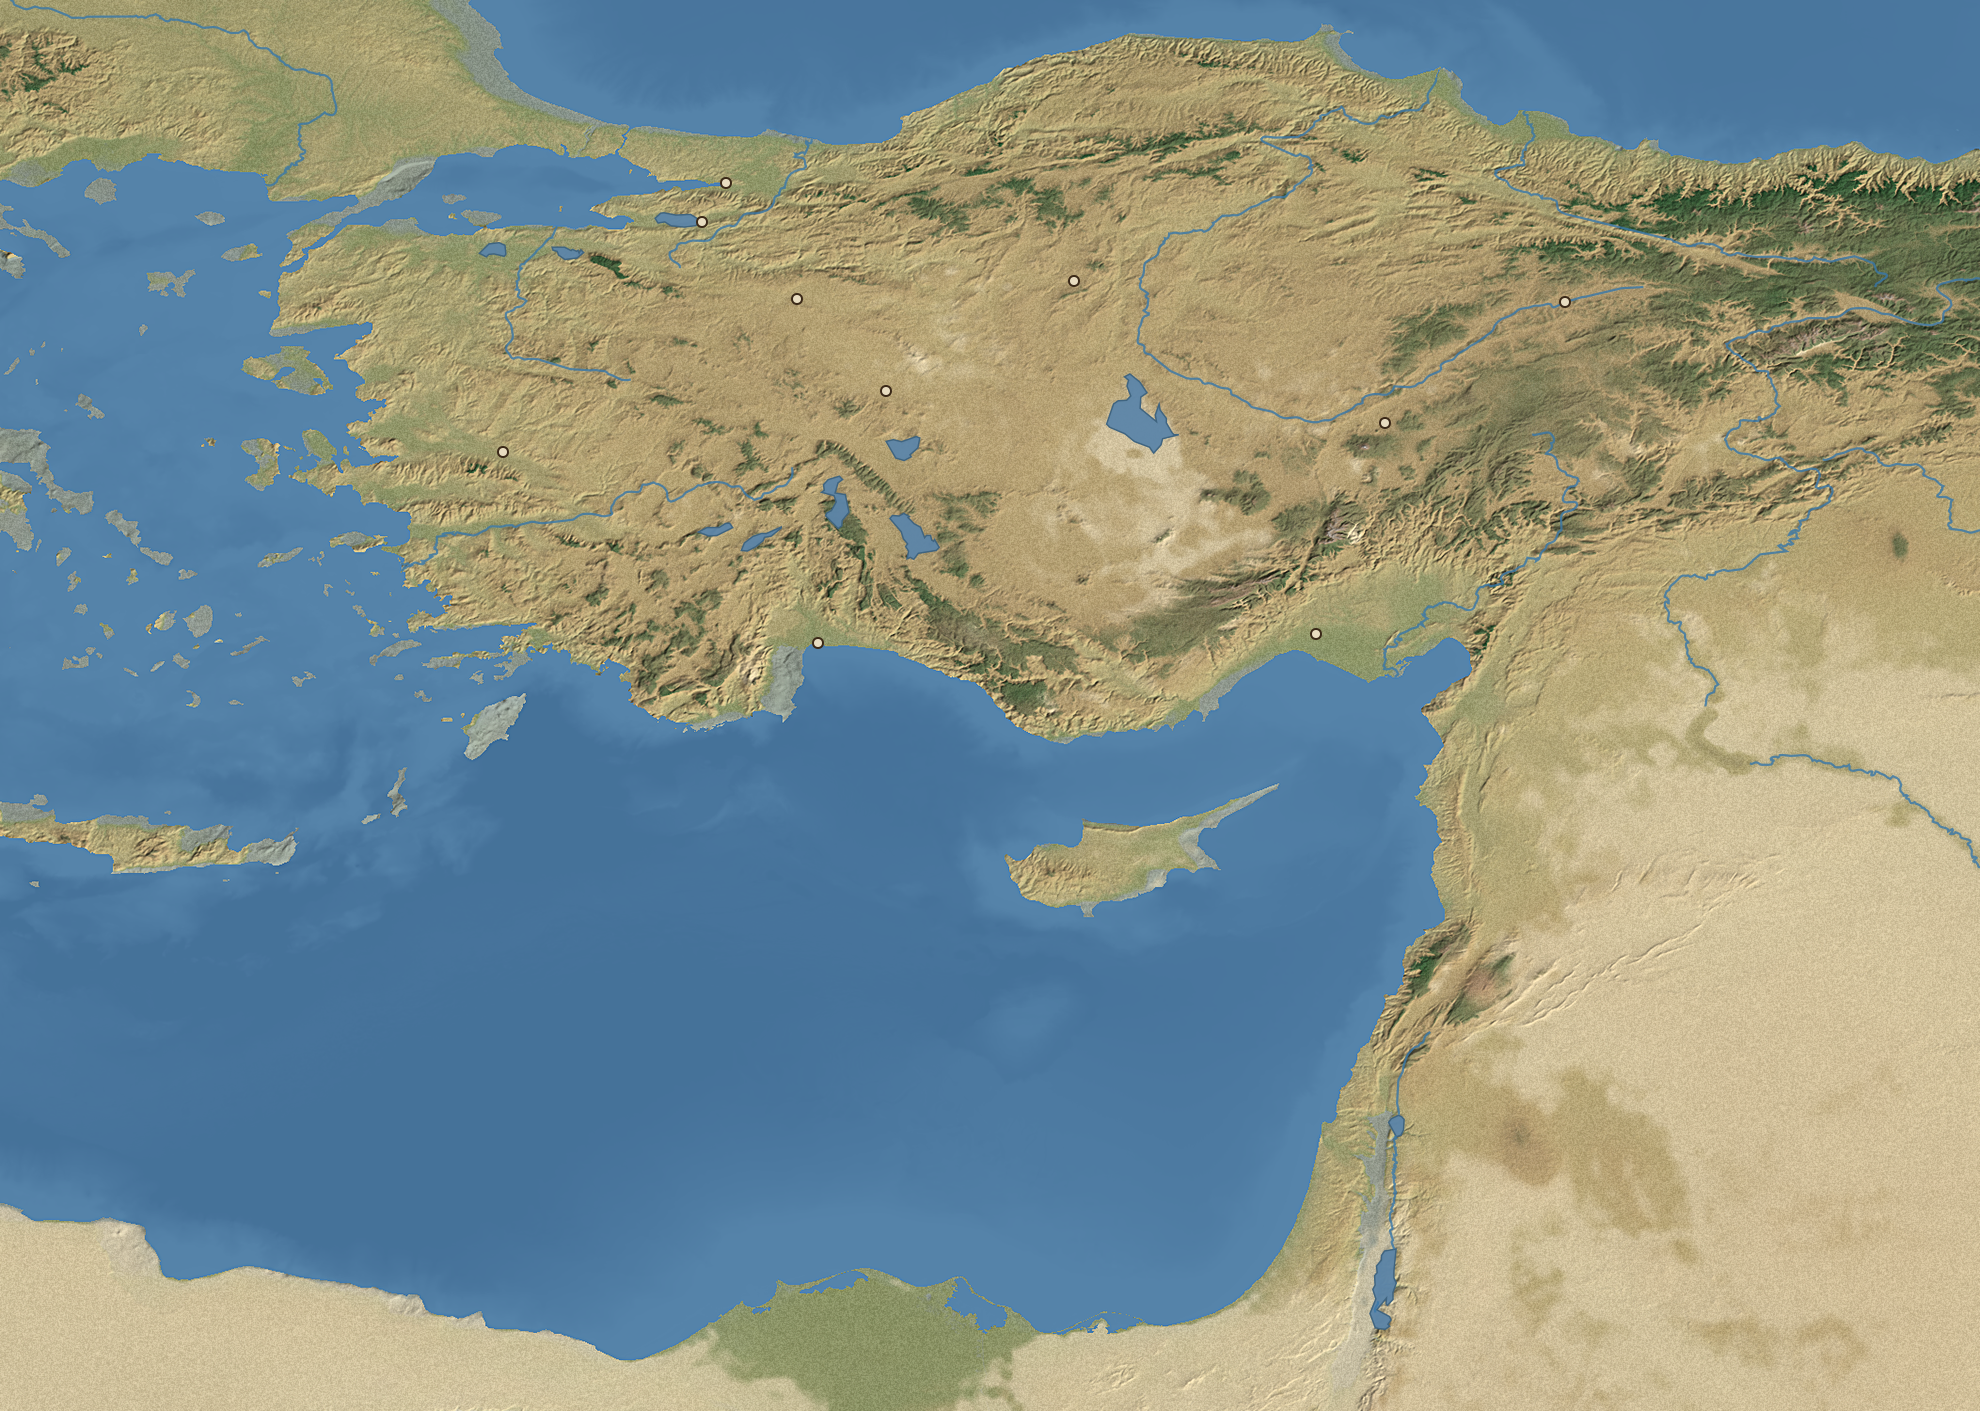
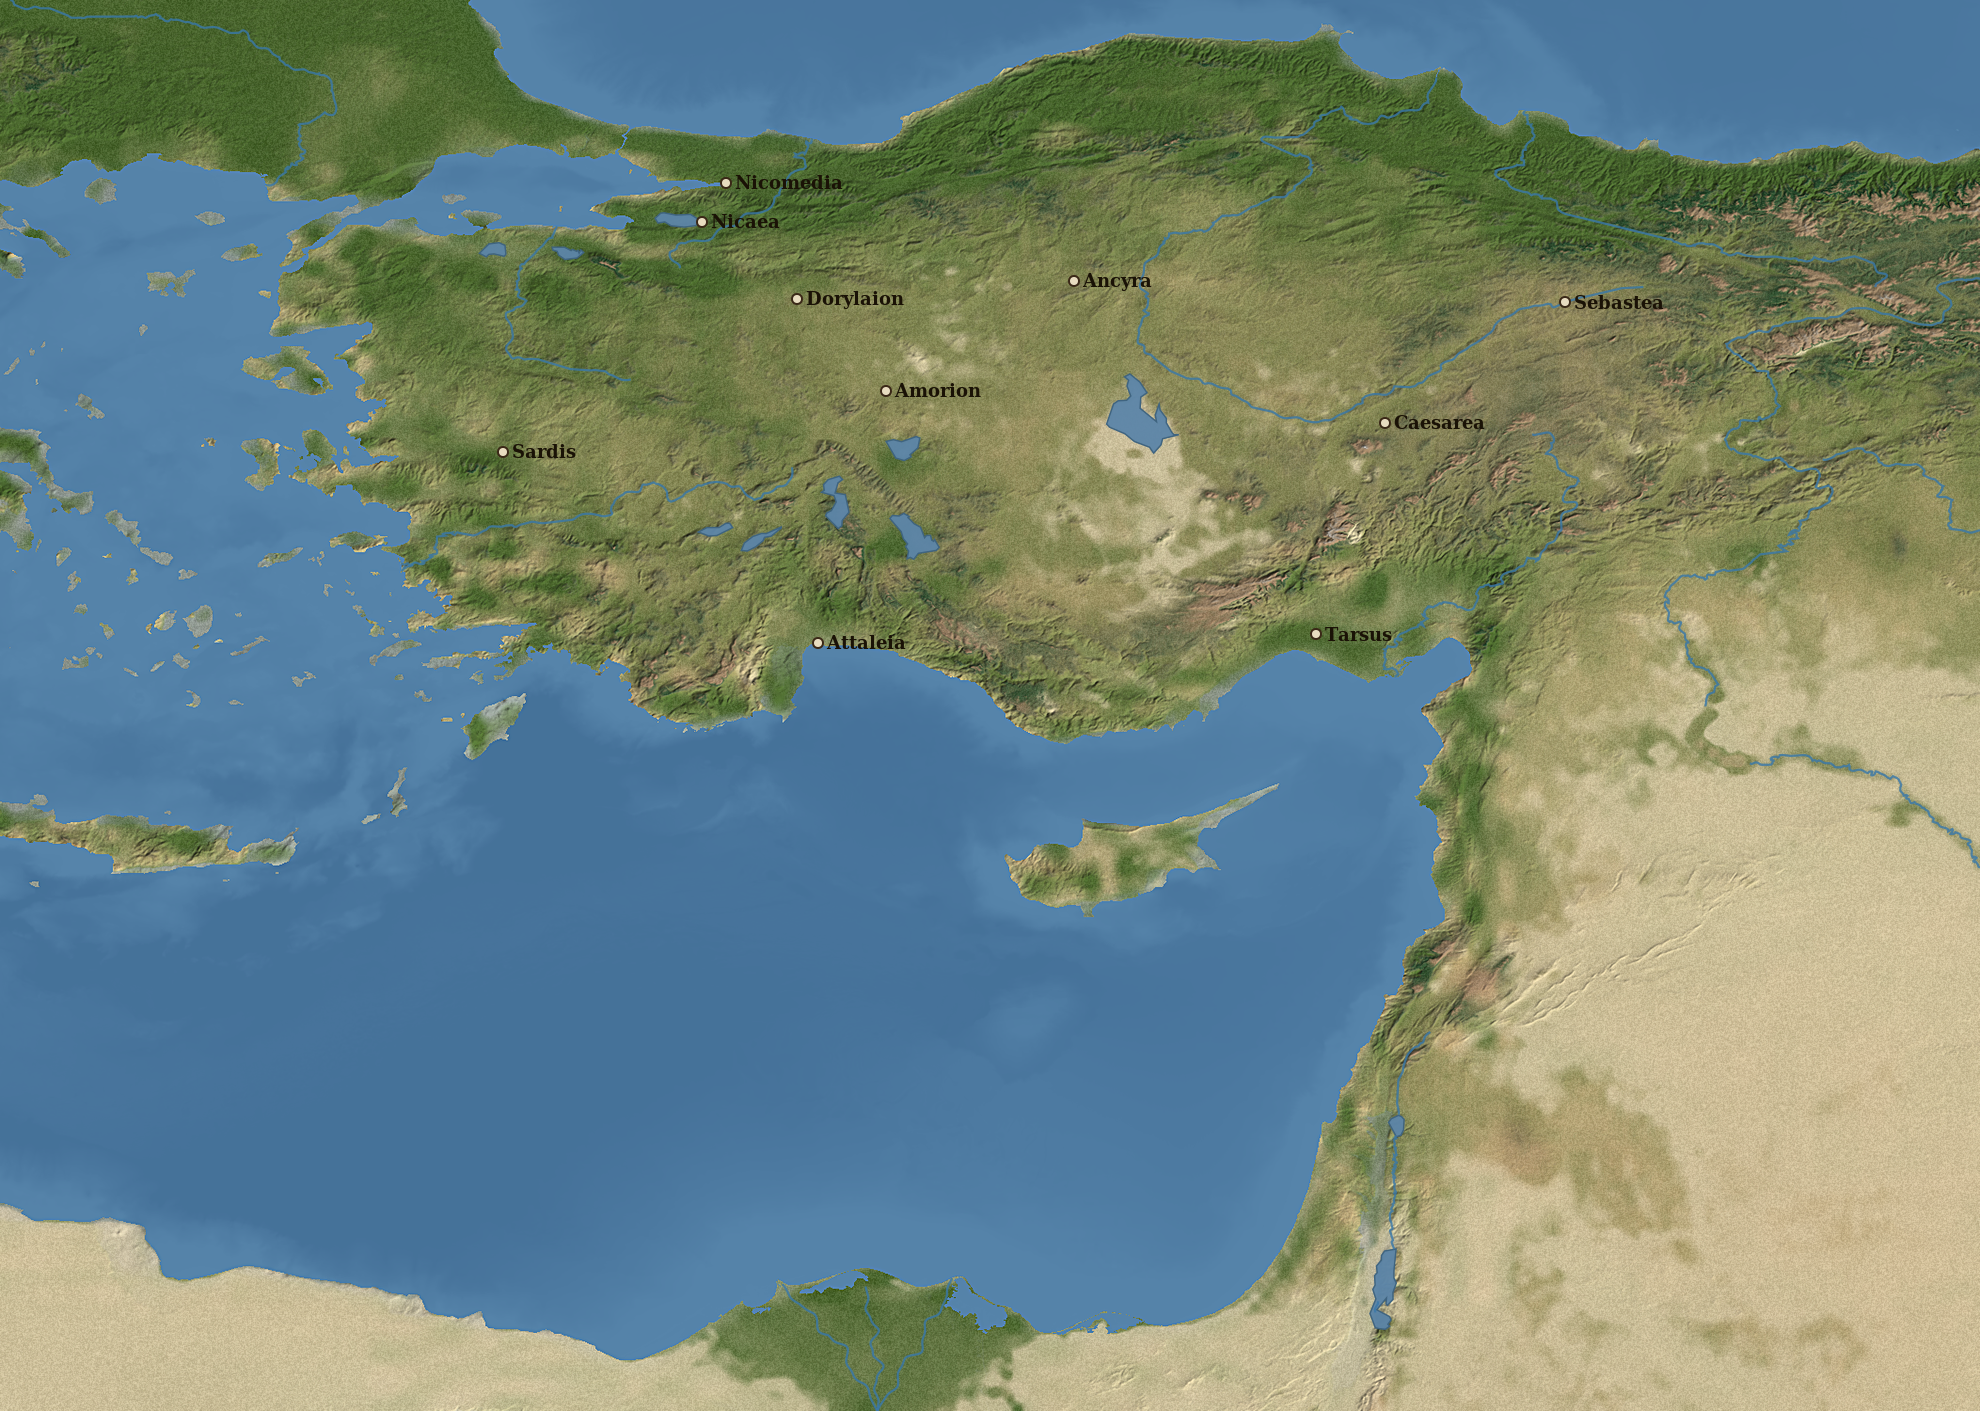
Vegetating Anatolia

diff --git a/index.html b/index.html
@@ -135,7 +135,7 @@
 <script>
 "use strict";
 /* ============ DATA ============ */
-const VERSION='2.03.14';
+const VERSION='2.03.17';
 const RESUME_B64="";
 const GOODS=[
  {id:'silk',  n:'Silk',      u:'bolt',  wt:2, e:8,  w:58},
@@ -2119,7 +2119,7 @@ async function saveScore(entry){
     LEADERBOARD=board.slice(0,200);
     await STORE.set('silkroad_scores', JSON.stringify(LEADERBOARD));
   }catch(e){ if(LEADERBOARD){const i=LEADERBOARD.findIndex(e=>e.runId&&e.runId===entry.runId); if(i>=0)LEADERBOARD[i]=entry; else LEADERBOARD.push(entry); LEADERBOARD.sort((a,b)=>b.score-a.score);LEADERBOARD=LEADERBOARD.slice(0,200);} }
-  if(SB_ON && entry.runId){ try{ sbSend('scores?on_conflict=run_id','POST',{run_id:entry.runId, score:Math.round(entry.score||0), data:entry},'resolution=merge-duplicates,return=minimal').then(()=>{ if($('board')){ LEADERBOARD=null; loadBoard().then(()=>{ if($('board'))renderBoardInto($('board')); }); } }).catch(()=>{}); }catch(e){} }
+  if(SB_ON && entry.runId){ try{ sbSend('scores?on_conflict=run_id','POST',{run_id:entry.runId, score:Math.round(entry.score||0), data:entry},'resolution=merge-duplicates,return=minimal').then(function(r){ if(r&&!r.ok){ try{ r.text().then(function(t){ console.warn('[scores] Supabase write rejected', r.status, t); }); }catch(_){ } return; } if($('board')){ LEADERBOARD=null; loadBoard().then(()=>{ if($('board'))renderBoardInto($('board')); }); } }).catch(function(e){ console.warn('[scores] Supabase write error', e); }); }catch(e){} }
   if($('board')) renderBoardInto($('board'));
 }
 function recordRun(outcome){
@@ -2134,7 +2134,7 @@ function setBoardView(v){ BOARD_VIEW=v; if($('board'))renderBoardInto($('board')
 function renderBoardInto(el){
   const all=(LEADERBOARD||[]).slice();
   const tabs='<div style="margin-bottom:8px">'+BOARD_VIEWS.map(function(t){ return '<button class="tiny'+(BOARD_VIEW===t[0]?' seal':'')+'" onclick="setBoardView(\''+t[0]+'\')">'+t[1]+'</button>'; }).join(' ')+'</div>';
-  const estHead='<tr><th>#</th><th>Merchant</th><th style="text-align:right">Estate</th><th style="text-align:right">Days</th><th>Fate</th></tr>';
+  const estHead='<tr><th>#</th><th>Merchant</th><th style="text-align:right">Estate</th><th style="text-align:right">Days</th><th class="sub">Ver</th><th>Fate</th></tr>';
   const fastHead='<tr><th>#</th><th>Merchant</th><th style="text-align:right">Days</th><th style="text-align:right">Estate</th><th>Route</th></tr>';
   let head=estHead, list, fast=false;
   if(BOARD_VIEW==='fastest'){ fast=true; head=fastHead; list=all.filter(function(e){return e.roundtrip&&e.days;}).sort(function(a,b){return a.days-b.days;}).slice(0,3); }
@@ -2143,7 +2143,7 @@ function renderBoardInto(el){
   let body;
   if(!list.length){ body='<p class="sub">No ventures of this kind recorded yet.</p>'; }
   else if(fast){ body='<table>'+head+list.map(function(e,i){ return '<tr><td>'+(i+1)+'</td><td>'+e.name+'</td><td class="num gold">'+e.days+'</td><td class="num">'+e.score+'</td><td class="sub">'+(e.route&&e.route!=='-'?(e.route==='N'?'northern':'southern'):'—')+'</td></tr>'; }).join('')+'</table>'; }
-  else { body='<table>'+head+list.map(function(e,i){ return '<tr><td>'+(i+1)+'</td><td>'+e.name+'</td><td class="num gold">'+e.score+'</td><td class="num">'+(e.days||'—')+'</td><td class="sub">'+e.outcome+'</td></tr>'; }).join('')+'</table>'; }
+  else { body='<table>'+head+list.map(function(e,i){ return '<tr><td>'+(i+1)+'</td><td>'+e.name+'</td><td class="num gold">'+e.score+'</td><td class="num">'+(e.days||'—')+'</td><td class="sub">'+(e.version||'\u2014')+'</td><td class="sub">'+e.outcome+'</td></tr>'; }).join('')+'</table>'; }
   el.innerHTML=tabs+body;
 }
 
@@ -4155,7 +4155,7 @@ function seaEntryButtons(c){
   return '';
 }
 /* ============ ANATOLIA REGION MAP (departure screen) ============ */
-const ANAT_IMG="Maps/anatolia_relief_setout.png";
+function anatImg(){ return "Maps/anatolia_relief_setout_"+((typeof chartSeason==='function')?chartSeason():'summer')+".png"; }
 const CHARTS={
  kashgar:{img:"Maps/kashgar762.png",seasonal:true,vbw:1500,vbh:747,title:"Kashgar and the western Tarim",cities:{Kashgar:{x:665,y:420,ldx:-150,ldy:8},Akhsikath:{x:133,y:244,ldx:0,ldy:16},Yarkand:{x:873,y:596,ldx:0,ldy:18},Aksu:{x:1377,y:138,ldx:-95,ldy:-2}},open:["Kashgar"]},
  steppe:{img:"Maps/steppe762.png",seasonal:true,vbw:1980,vbh:1064,title:"Sogdiana and the steppe road",cities:{Bukhara:{x:62,y:729,ldx:14,ldy:6},Samarkand:{x:439,y:746,ldx:-10,ldy:20},Chach:{x:780,y:501,ldx:0,ldy:-18},Ispijab:{x:783,y:355,ldx:-118,ldy:-2},Talas:{x:1089,y:266,ldx:0,ldy:-16},Akhsikath:{x:1104,y:559,ldx:0,ldy:18},Kashgar:{x:1772,y:773,ldx:-150,ldy:8},Suyab:{x:1655,y:281,ldx:-118,ldy:-4}},open:["Samarkand","Chach","Ispijab","Talas","Akhsikath","Suyab"]},
@@ -4230,7 +4230,7 @@ function renderMap(m){
     '<circle cx="237" cy="551" r="13" fill="#c0241a" stroke="#fff" stroke-width="3"/><text x="262" y="544" font-size="42" fill="#7a1208" stroke="#f7e9c8" stroke-width="6" paint-order="stroke">Constantinople</text>'+
     '<circle cx="4247" cy="889" r="13" fill="#c0241a" stroke="#fff" stroke-width="3"/><text x="4224" y="952" text-anchor="end" font-size="42" fill="#7a1208" stroke="#f7e9c8" stroke-width="6" paint-order="stroke">Chang\'an</text>'+
     '</g></g></svg>'+
-    '<img id="cncorr" src="Maps/anatolia_relief_setout.png" alt="" style="position:absolute;inset:0;width:100%;height:100%;object-fit:cover;opacity:0">'+
+    '<img id="cncorr" src="'+anatImg()+'" alt="" style="position:absolute;inset:0;width:100%;height:100%;object-fit:cover;opacity:0">'+
     '<div class="cnCap">Constantinople &mdash; the western end of the Silk Road. Your road runs east, across Anatolia and the deserts beyond, toward distant Cathay. <em>(tap to skip)</em></div></div>';
     cnPlayIntro({x0:0,y0:486,x1:816,y1:1083},2.0); return; } }
   function avail(id){ if(!links[id])return false; if(links[id]==='sea')return voyAllowed(ANAT_NAME[here],ANAT_NAME[id]); return true; }
@@ -4264,7 +4264,7 @@ function renderMap(m){
   var _onward=(_nx && !_onMap(_nx.name))? '<button class="seal" onclick="S.screen=\'city\';setOut(S.dir||1)">Set out on the main road \u2014 toward '+_nx.name+'</button> ' : '';
   m.innerHTML='<h2>Leave '+(city()?cityLabel(city()):'the city')+' <span class="sub">· choose your road</span></h2>'+
     '<div style="position:relative;max-width:800px;margin:6px auto;line-height:0">'+
-    '<img src="'+ANAT_IMG+'" alt="map of Anatolia" style="width:100%;display:block;border:5px solid #6b4f2a;border-radius:3px" onerror="this.style.visibility=\'hidden\'">'+
+    '<img src="'+anatImg()+'" alt="map of Anatolia" style="width:100%;display:block;border:5px solid #6b4f2a;border-radius:3px" onerror="this.style.visibility=\'hidden\'">'+
     '<svg viewBox="0 0 1402 999" preserveAspectRatio="xMidYMid meet" style="position:absolute;left:5px;top:5px;width:calc(100% - 10px);height:calc(100% - 10px)">'+s+'</svg></div>'+
     '<p class="sub" style="text-align:center;max-width:780px;margin:6px auto">Click a destination. The bright lines are roads open to you now \u2014 <span style="color:#e23b25">red overland</span> (with the caravan) or <span style="color:#2f8fb0">blue by ship</span> (sell the beasts, pay a fare). Faint lines are the roads that carry on from there.</p>'+
     '<div style="text-align:center;margin-top:8px">'+_onward+'<button onclick="S.screen=\''+(S.seaMode?'port':'city')+'\';render()">Back to the bazaar</button></div>';
@@ -5021,6 +5021,7 @@ function tavWriteGraffiti(){ var el=document.getElementById('graffititext'); var
   log('You scratch your mark on the wall of the world.'); render(); }
 const TAV_INTRO="Three regulars hold the long table. <b>Diogenes</b>, a lean Greek with a tongue like a flensing-knife, who holds every man a fool and most of them hypocrites, and says so. <b>Nithard</b>, a big Frank gone grey in the saddle, who reckons the world belongs to whoever is strong enough to take it and feels no need to apologise for it. And <b>Kanat</b> the Khwarazmian, careful and exact, forever asking what would follow if every man did as you propose. They are arguing, as ever — just now over <b>bukhts</b> — and shove out a stool for a fourth opinion.";
 const TOPICS={
+  inspiration:{trig:['inspiration','inspired','inspire','homage','tribute','oregon','trade wars','tradewars','land of dev','devastation','dungeons','dragons','d&d','credits','influence','influences'],t:"<b>Diogenes</b> sets down his cup and, oddly, seems to look clean through the wall — through the world itself. “Ah — the debt every road owes the roads walked before it. The whole of this long journey follows in the ruts of <b>The Oregon Trail</b> (1971), by Don Rawitsch, Bill Heinemann and Paul Dillenberger. This very tavern — the buying and the selling, the ports and the ledgers of it — is an homage to <b>Trade Wars 2002</b>, by Gary Martin. And this trick, of asking a stranger a plain word and getting a plain answer? That we had from <b>Land of Devastation</b>, by Scott M. Baker. The dice behind a man’s sword-arm and his luck tip their cap to <b>Dungeons &amp; Dragons</b> besides — and a hundred other old games have left their footprints in this dust.” He blinks, and is only a Greek in a Byzantine tavern once more. “…where was I?”"},
  bukht:{trig:['bukht','hybrid'],t:"\u201cA <b>bukht</b>,\u201d he says, \u201cis what you get crossing a one-humped <b>dromedary</b> on a two-humped <b>bactrian</b>. Carries more than either, complains less, and minds neither the burning <b>desert</b> nor the high cold. Worth every coin \u2014 if you can find one.\u201d"},
  animals:{trig:['animal','camel','bactrian','dromedary','mule','donkey','horse','beast','herd','livestock'],t:"\u201cYou buy your <b>mounts</b> and pack-beasts at the livestock market \u2014 <b>bactrians</b> for the cold, <b>dromedaries</b> for the sand, mules for the mountains, horses to outrun trouble. But mind: you can only drive as many as your people can <b>herd</b>. A big caravan wants more hands.\u201d"},
  mounts:{trig:['mount','mounts','riding','horse'],t:"\u201cA <b>horse</b> under a man is worth six on foot when the <b>bandits</b> come \u2014 you can run, or you can ride them down. But beasts are only as many as your <b>guards</b> and drivers can manage.\u201d"},